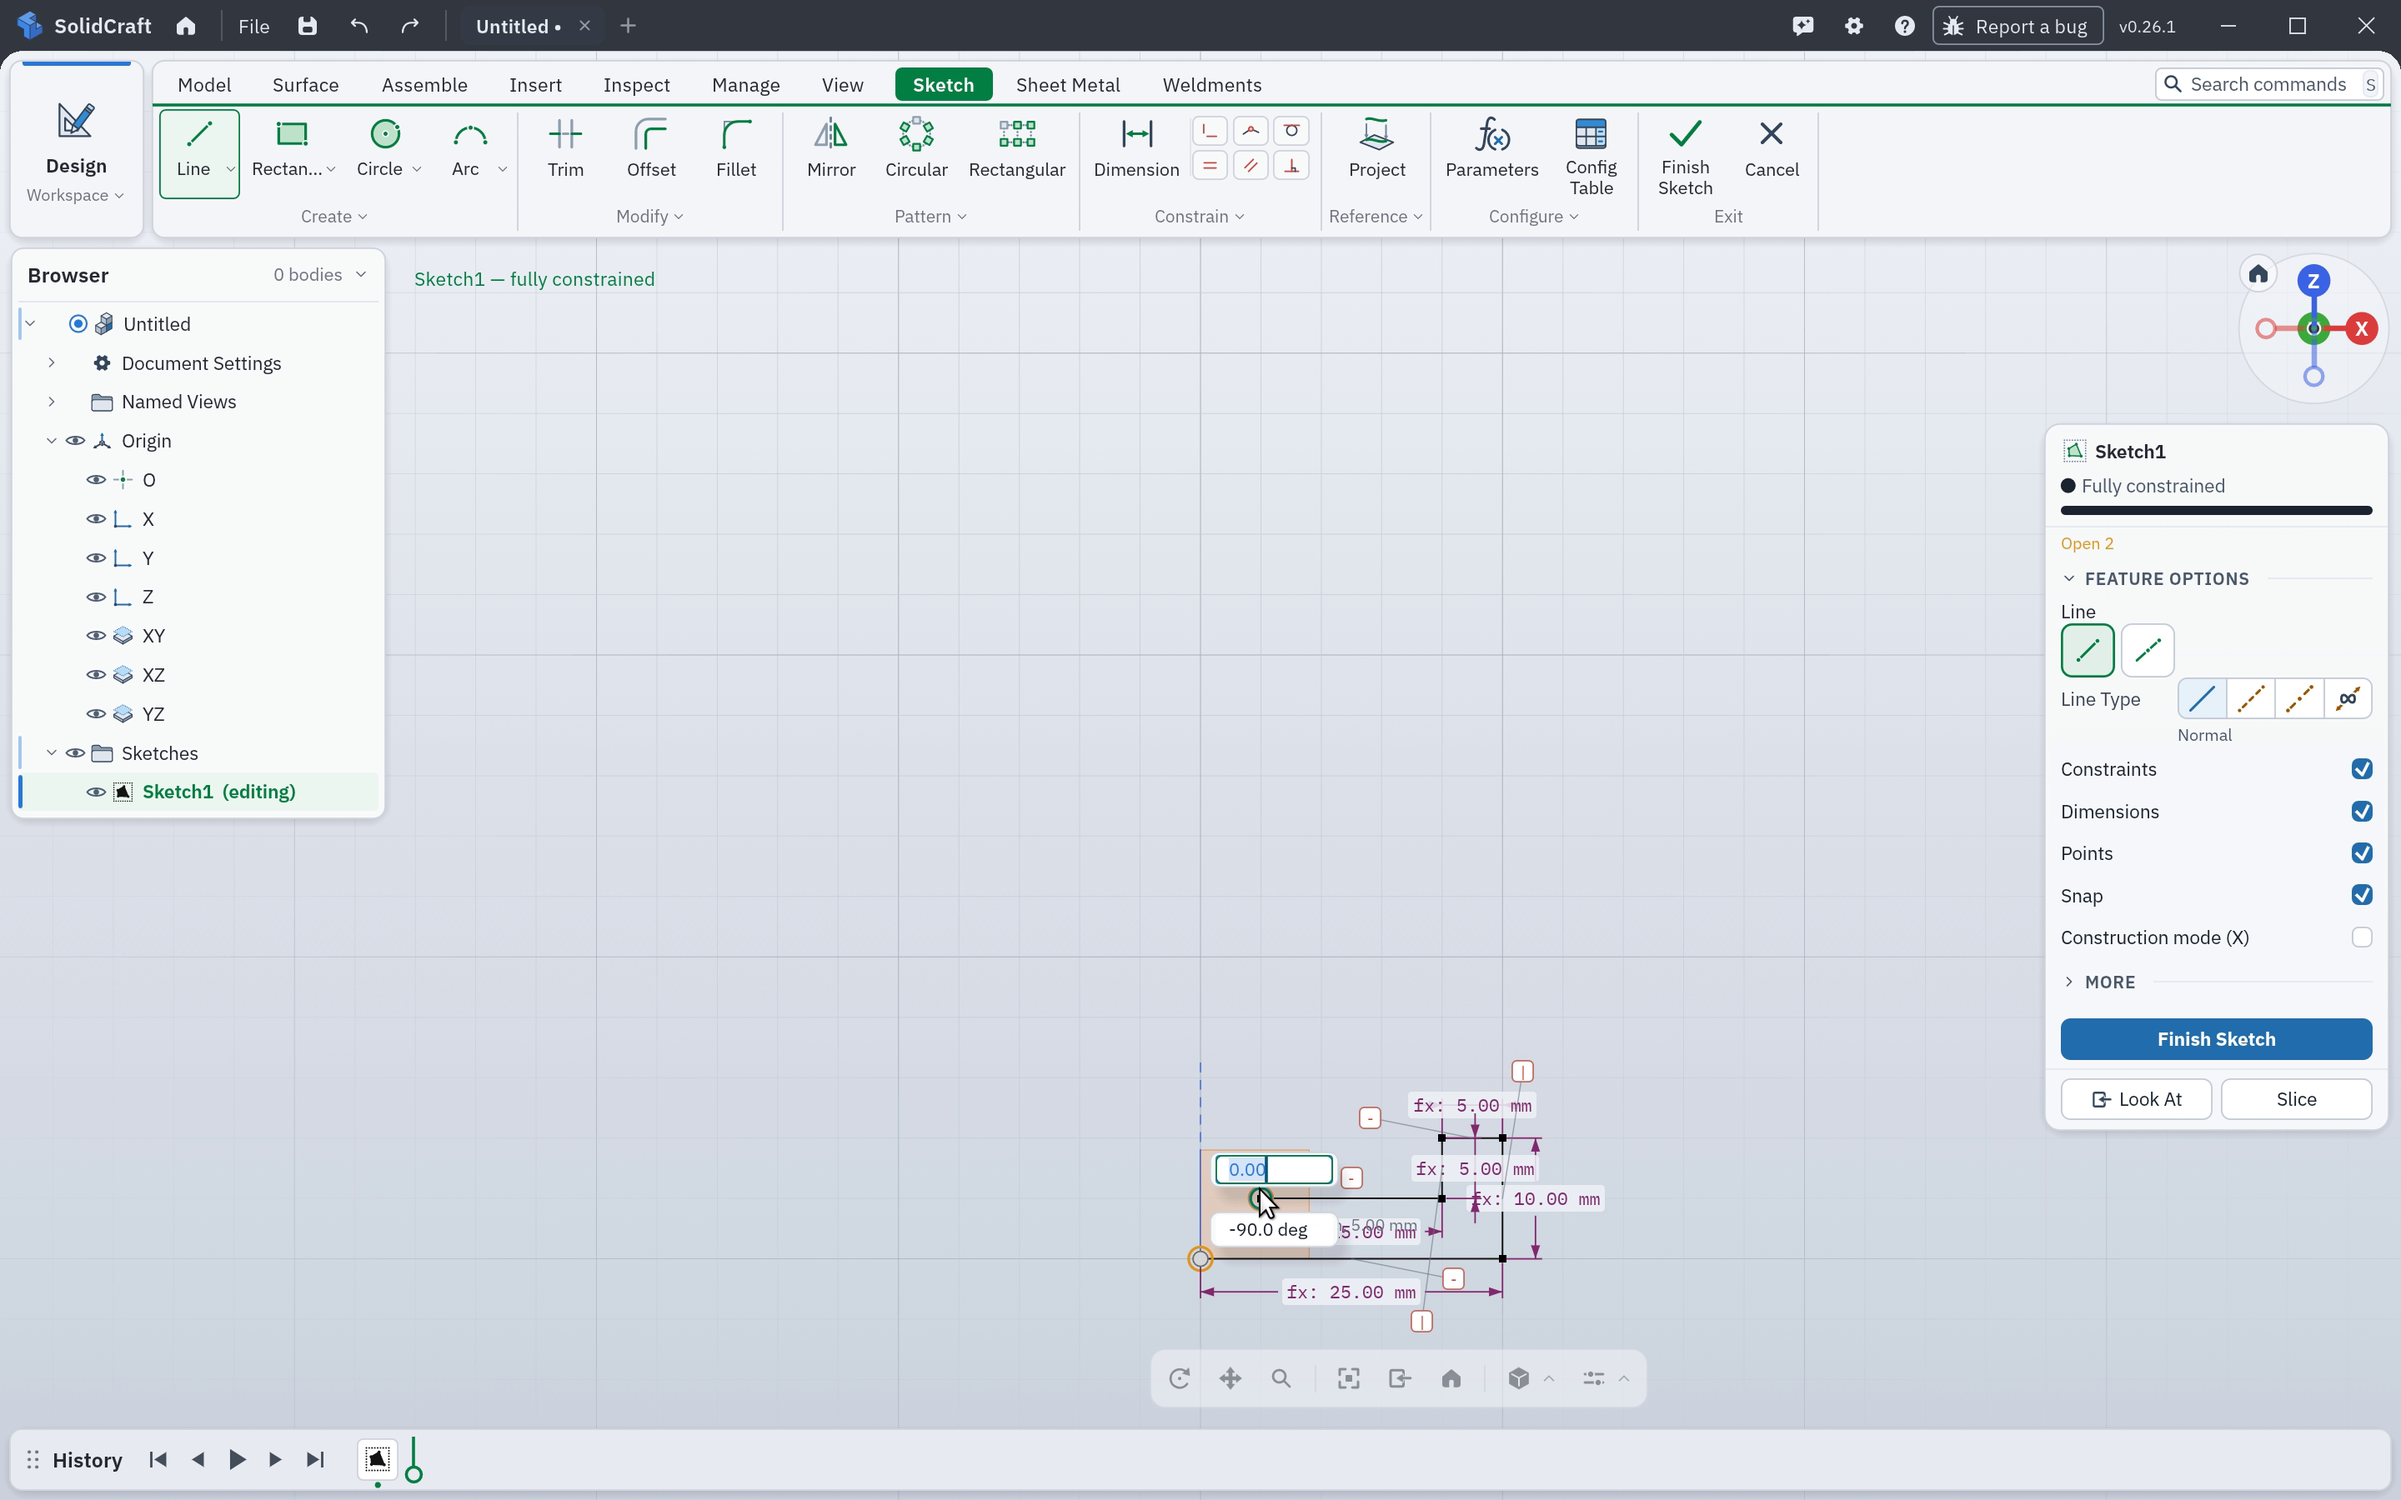
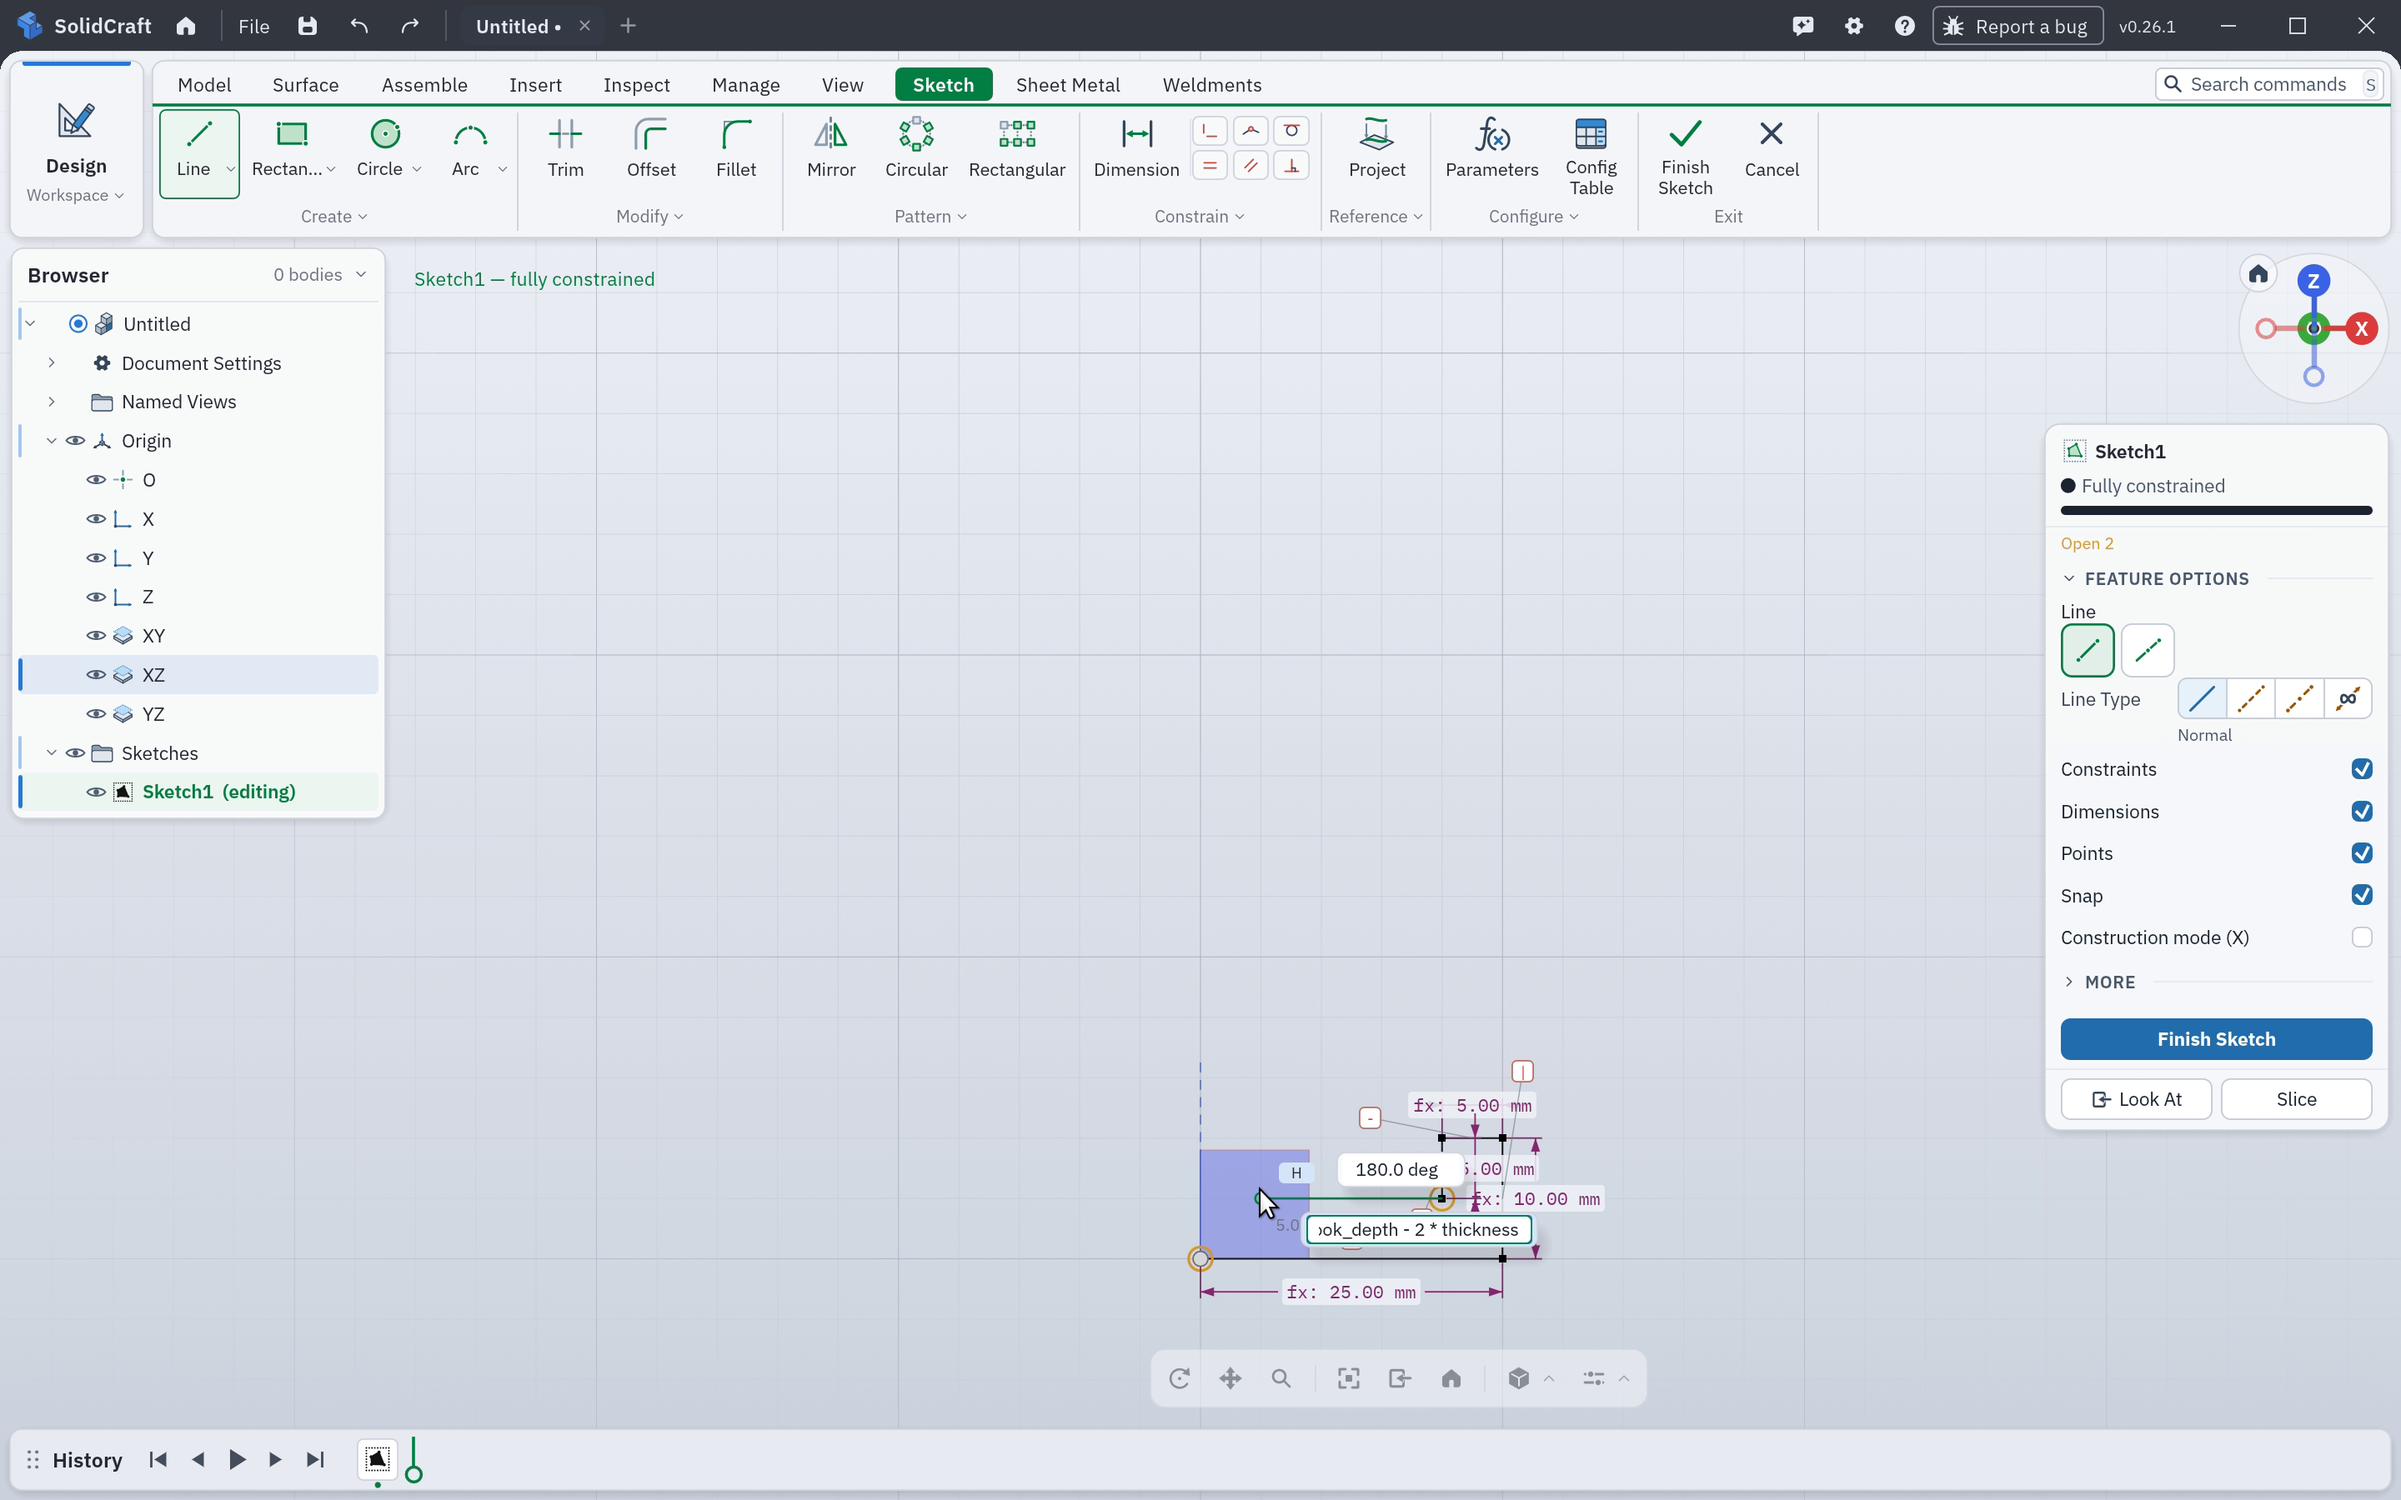
Lesson 3 lab: README questions and results; Short assets

Changed region(s): [[0.5, 0.7467, 0.6562, 0.8711]]

diff --git a/video/draw3.py b/video/draw3.py
@@ -215,6 +215,16 @@ def short_assets():
         text(d, ((a[0] + b[0]) / 2 + (36 if lab == '5' and a[0] == ox else 0), a[1] - 62), lab, 48, BLUE, anchor='ma')
     chip(d, (640, 300), '5 + 15 + 5 = 25', 50, anchor='m', bg=RED)
     save(im, 'sc3s-why.png')
+    im = Image.new('RGB', (1000, 1000), BG)
+    d = ImageDraw.Draw(im)
+    a = fit(still('hand-40.png', (1000, 300, 2150, 1650)), 480, 820)
+    b = fit(still('plain-25.png', (1000, 300, 2150, 1650)), 480, 820)
+    paste_c(im, a, 255, 520)
+    paste_c(im, b, 745, 520)
+    chip(d, (255, 20), 'NAMES · 40', 50, anchor='m', bg=GREEN)
+    chip(d, (745, 20), 'PLAIN · REFUSED', 44, anchor='m', bg=RED)
+    chip(d, (500, 900), '25 → 40', 56, anchor='m', bg=INK)
+    save(im, 'sc3s-pair.png')
     for name, src, box in (('sc3s-formula.png', 'hand-formula.png', (1150, 900, 2150, 1650)),
                            ('sc3s-thick.png', 'B1-thick.png', B1BOX)):
         im = Image.new('RGB', (1000, 1000), BG)

diff --git a/video/stills3.py b/video/stills3.py
@@ -20,7 +20,7 @@ STILLS = {
     'hand-props-before.png': ('hand', 'properties: rows held', 2.0),
     'hand-props-after.png': ('hand', 'properties after: rows held', 2.0),
     'hand-j.png': ('hand', 'sketch: closed', 2.5),
-    'hand-formula.png': ('hand', 'line: left hook_depth - 2 * thickness placed', 0.4),
+    'hand-formula.png': ('hand', 'line: left hook_depth - 2 * thickness type', 2.7),
     'plain-25.png': ('plain', 'plain: the hook unchanged', 2.8),
     'plain-refused.png': ('plain', 'plain: the message held', 0.6),
     'plain-props.png': ('plain', 'plain properties: rows held', 2.0),

diff --git a/README.md b/README.md
@@ -102,6 +102,44 @@ and ³ as "_" (claude-1's terminal shows it; claude-2 runs with `LANG=C.UTF-8` a
 ends a turn with a line like "Baked for 12s · done 1:21 AM" (no "esc to interrupt" was ever sampled), which the driver
 now watches for; the input box shows Claude Code's own greyed suggestion for the next message (never sent).
 
+## Lesson 3: what the lab must show (written before the recorded runs)
+"SolidCraft Parameters by Hand vs Claude: Named Sizes for Beginners | SolidCraft + Claude Course 3". **Pinned build:
+SolidCraft 0.26.1** (the stable release on GitHub on 29 Oct 2026, published 11:46 UTC; the download page in a real
+browser offers the same; 0.26.0 writes design format 43, which 0.25.1 and older refuse). Claude Code 2.1.311 with
+Claude Sonnet 5.5. Images `sc3-app:0.26.1` (`docker/app.Dockerfile`, `SC_VER=0.26.1 SC_OLD=0.25.0`) and `sc3-l3:0.26.1`
+(`docker/l3.Dockerfile`).
+
+The part: lesson 2's wall hook with five named sizes (user parameters): `plate_height` 60, `width` 20, `thickness` 5,
+`hook_depth` 25, `lip_height` 10; the J typed with names and formulas (`checker/outline.py` `J_EXPRESSIONS`, tested:
+the same corners as lesson 2). The change: `hook_depth` 25 to 40; expected 500 mm², 10,000 mm³, 40 x 20 x 60.
+The Claude requests and the scoring rules were written to `out/l3/prereg.json` (committed) before the first run.
+
+| # | Question | How it is measured | Answer file |
+|---|---|---|---|
+| L3-Q1 | Which version does the download page offer? | `sitecheck/check.sh` with `LESSON=l3` | `out/l3/sitecheck.json` |
+| L3-Q2 | Does the by-hand path with names work? | `lab/l3hand.sh`: the real window, filmed, xdotool only | `out/l3/hand/` |
+| L3-Q3 | What does SolidCraft report before and after the change? | Properties (filmed) and `lab/l3read.py` (no AI: inspect_design, measure, parameters.list) | `out/l3/hand/read.json` |
+| L3-Q4 | Lesson 2's plain-number J: d1 25 to 40? | `lab/l3plain.sh`: filmed; reads after the refusal and after a formula fix | `out/l3/plain/` |
+| L3-Q5 | Claude not asked (A1, A2) and asked in one sentence (B1, B2) | `claude-run/l3run.sh` + `lab/l3claude.sh` (lesson 2's driver), messages in `claude-run/l3messages.sh` | `out/l3/runs/*/` |
+| L3-Q6 | Scored against the pre-registered rules | `lab/l3compare.py` | `out/l3/compare.json` |
+| L3-Q7 | Is it real? | `lab/l3replay.sh A1`, `B1`: logged calls, fresh window, no AI; STL checker | `out/l3/replay-*.json` |
+
+## Lesson 3: what it found (29 Oct 2026, SolidCraft 0.26.1, Linux x86_64 in Docker)
+| # | Answer | File |
+|---|---|---|
+| L3-Q1 | The download page in a real browser offers **0.26.1** = GitHub latest; curl alone sees the 0.22.0 fallback. | `out/l3/sitecheck.json` |
+| L3-Q2 | Works as filmed: Parameters is on the **Model** tab (the docs say Manage); Add parameter, name, Tab, Tab, value, Enter; the Line tool's length box takes names and formulas (`hook_depth - 2 * thickness`), the dimensions read "fx: 15.00 mm"; Extrude Distance `width`. | `out/l3/hand/` |
+| L3-Q3 | Before: **8,500.0 mm³, 25 x 20 x 60**. After `hook_depth` 40 (the hook rebuilt with the dialog open): **10,000.0 mm³, 40 x 20 x 60**; 5 user parameters; all 8 sizes (7 dimensions + the extrude) written from names; fully constrained. | `out/l3/hand/read.json`, `props-*.png` |
+| L3-Q4 | d1 = 40 is **refused**: "sketch `Sketch1`: its constraints would conflict (k2, k3, k6, k7, k10, k11, k14, k15); the values were not changed". The ids are d1, d3, d5, d7 (the lengths across: 25, 5, 15, 5) and the four upright lines. The dialog's box and Value column show 40, but the model keeps 25 (8,500, 25 x 20 x 60). Fix filmed: d5 = `d1 - 10` (the Filter finds the row), then d1 = 40: accepted, 10,000 / 40 x 20 x 60. | `out/l3/plain/`, `after-refusal/read.json` |
+| L3-Q5 | **Not asked: 0 user parameters in 2 of 2.** A1: built it hanging (Z -60..0), checked, rebuilt it standing; the edit = a new design and the J drawn again with new corners: 40 x 20 x 60, 10,000. A2: read "40 deep" as the extrude: 25 x 40 x 60, 17,000, and said so. **Asked: 5 user parameters and a one-number edit (`set_parameter hook_depth 40`) in 2 of 2.** B1 placed the plate's inner edge at x = `hook_depth - 2 * thickness` (15) instead of `thickness` (5): **19,500 mm³** at 25 (its reply gave the number and did not flag it), **37,500 mm³** at 40 (plate 30 thick). B2: all corners right, **10,000 / 40 x 20 x 60**. Every run first built the hook hanging (lesson 2's plane) and rebuilt it standing. Cost $0.1312 + $0.1900 + $0.1805 + $0.1741. | `out/l3/runs/`, `compare.json` |
+| L3-Q7 | A1's 9 logged calls, no AI: 0 errors, **10,000.0**; B1's 11: 0 errors, **37,500.0**; our STL checker: closed, the same volumes. | `out/l3/replay-A1.json`, `replay-B1.json` |
+
+Lab notes: the turn-end line can carry a non-ASCII verb ("Sautéed for 41s"): the driver's pattern now takes `\w`
+(B1 waited 6 minutes for its time-out before turn 2; the recording's idle part is not used). `parameters.list` does
+not count point expressions in `sketch.line` as uses (B1/B2 show `used_by: []`), so the names-in-corners evidence is
+the logged `sketch.line` points. The 2880x1800 masters stay in `out/scratch/l3-masters` (not committed); each run
+folder has a 1440x900 copy.
+
 ## Run it
 ```bash
 docker build -t sc1-app:0.24.1 -f docker/app.Dockerfile docker
@@ -123,6 +161,15 @@ bash claude-run/l2run.sh claude-2                                     # paid: us
 docker run --rm --network none -v "$PWD:/work" -w /work sc2-app:0.25.0 python3 lab/l2compare.py claude-2
 docker run --rm --memory 4g --shm-size 1g --network none -v "$PWD:/work" sc2-l2:0.25.0 bash /work/lab/l2replay.sh claude-2
 docker run --rm --network none -v "$PWD:/work" -w /work cadcmp-openscad:2021.01 python3 video/draw2.py   # cards (any image with PIL)
+# lesson 3
+docker build -t sc3-app:0.26.1 --build-arg SC_VER=0.26.1 --build-arg SC_OLD=0.25.0 -f docker/app.Dockerfile docker
+docker build -t sc3-l3:0.26.1 -f docker/l3.Dockerfile docker
+for t in l3hand.sh l3plain.sh; do docker run --rm --memory 4g --shm-size 1g --network none -v "$PWD:/work" sc3-l3:0.26.1 bash /work/lab/$t; done
+for r in A1 B1 A2 B2; do bash claude-run/l3run.sh $r; done                 # paid: uses this PC's Claude sign-in
+python3 lab/l3compare.py
+for r in A1 B1; do docker run --rm --memory 4g --shm-size 1g --network none -v "$PWD:/work" sc3-l3:0.26.1 bash /work/lab/l3replay.sh $r; done
+docker run --rm --network none -v "$PWD:/work" -w /work sc3-app:0.26.1 python3 video/stills3.py
+docker run --rm --network none -v "$PWD:/work" -w /work cadcmp-openscad:2021.01 python3 video/draw3.py
 ```
 
 ## Licence
